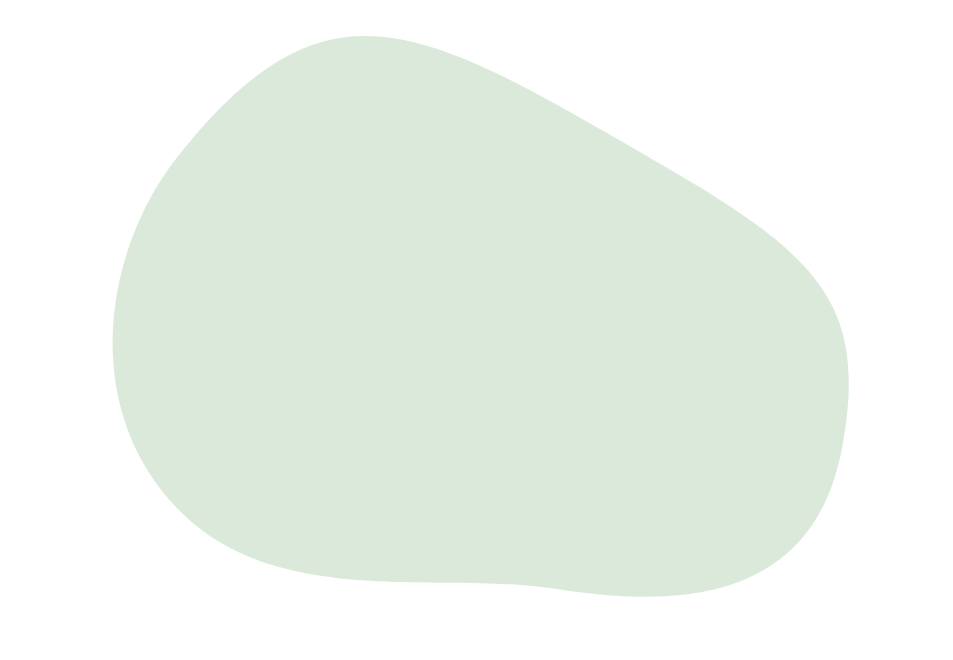
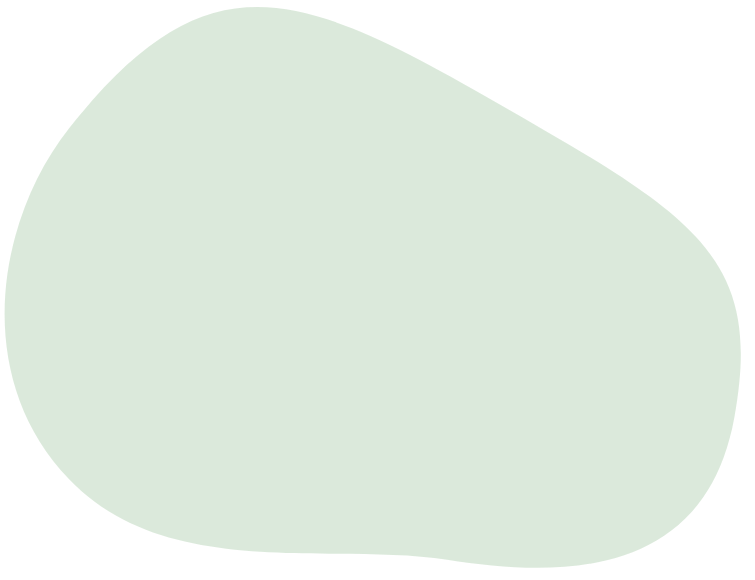
recently updated bg image

Changed region(s): [[0.0, 0.0, 1.0, 0.9931]]

diff --git a/style.css b/style.css
@@ -280,6 +280,11 @@ footer a{
   width: 150px;
   padding-bottom: 10px;
   border-bottom: 1px solid #214625;
+  background-image: url(mainImages/responsiveBG.png);
+  background-position: center;
+  background-repeat: no-repeat;
+  background-attachment: scroll;
+  background-size: 100% 100%;
 }
 
 .pageSidebar a{
